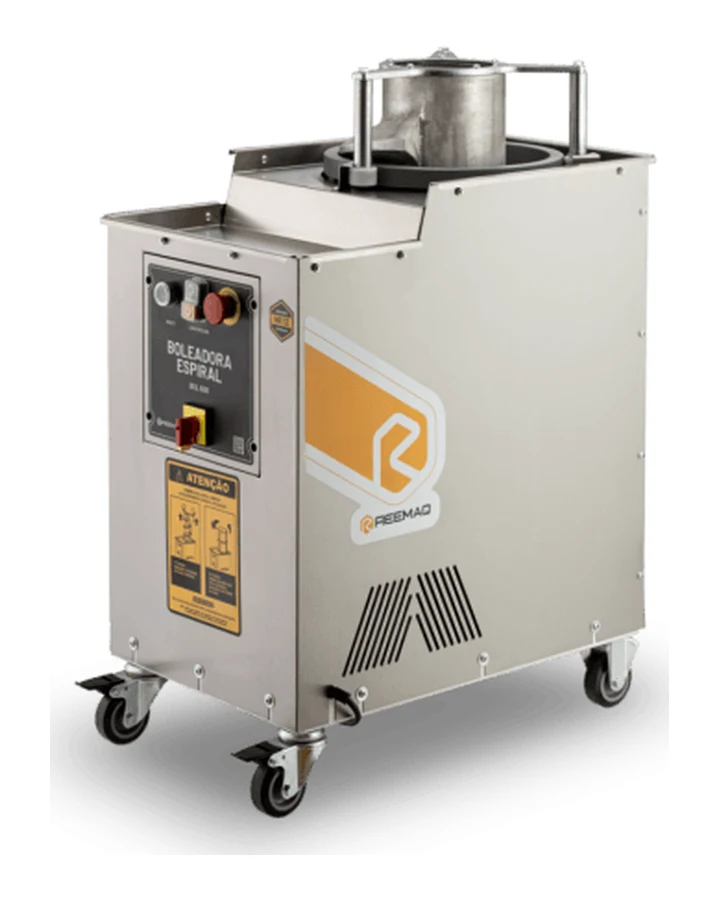
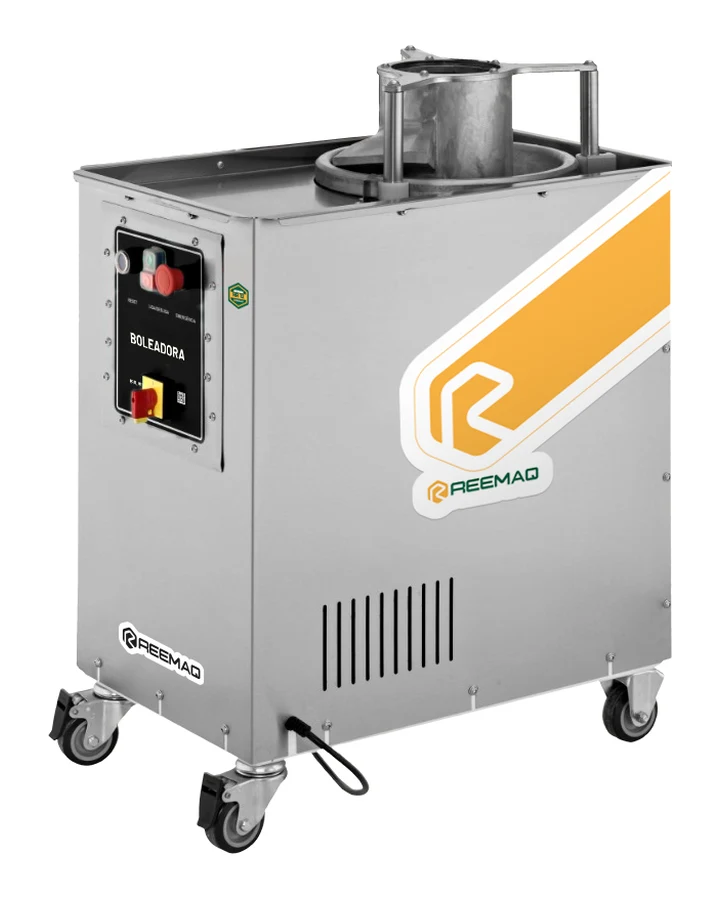
Reemaq: fotos MP 40 y boleadora nuevas, categoría destacada en landing y catálogo
Claude-Session: https://claude.ai/code/session_01JMrNzvF3s8qVz8PyM1pWJG

diff --git a/src/screens/Landing.jsx b/src/screens/Landing.jsx
@@ -96,14 +96,14 @@ function Landing({ go, addToCart }) {
           <div className="section-head">
             <div>
               <div className="eyebrow">01 — Líneas de producto</div>
-              <h2>Nueve líneas, todo el oficio cubierto.</h2>
+              <h2>Diez líneas, todo el oficio cubierto.</h2>
             </div>
             <button className="btn btn-ghost" onClick={() => go('catalog')}>Ver todo <Icon name="arrow" size={14}/></button>
           </div>
           <div className="cat-grid info-grid">
             {CATEGORIES.map(c => (
-              <div key={c.id} className="cat-cell" onClick={() => go('catalog', { category: c.id })}>
-                <div className="num">{c.n} / {String(CATEGORIES.length).padStart(2,'0')}</div>
+              <div key={c.id} className={`cat-cell${c.featured ? ' cat-featured' : ''}`} onClick={() => go('catalog', { category: c.id })}>
+                <div className="num">{c.n} / {String(CATEGORIES.length).padStart(2,'0')}{c.featured && <span className="feat-tag">Representante oficial</span>}</div>
                 <div>
                   <h3>{c.label}</h3>
                   <div className="count">{c.desc}</div>

diff --git a/src/data.js b/src/data.js
@@ -12,7 +12,7 @@ const CATEGORIES = [
   { id: 'rebanadoras', slug: 'rebanadoras',  n: '07', label: 'Rebanadoras',             desc: 'De mesa' },
   { id: 'laminadoras', slug: 'laminadoras',  n: '08', label: 'Laminadoras',             desc: 'De mesa y de pie' },
   { id: 'divisoras', slug: 'divisoras',    n: '09', label: 'Divisoras',               desc: 'Boleadoras semi-automáticas' },
-  { id: 'reemaq', slug: 'reemaq', n: '10', label: 'Reemaq', desc: 'Representante oficial: hornos, modeladoras y boleadora' },
+  { id: 'reemaq', slug: 'reemaq', n: '10', label: 'Reemaq', featured: true, desc: 'Representante oficial: hornos, modeladoras y boleadora' },
 ];
 
 const PRODUCTS = [

diff --git a/src/styles.css b/src/styles.css
@@ -2016,3 +2016,9 @@ img, svg, video { max-width: 100%; height: auto; }
   .dv-loc { grid-template-columns: 1fr; }
   .dv-loc-map, .dv-loc-map iframe { min-height: 300px; }
 }
+
+/* Categoría destacada (Reemaq) */
+.cat-cell.cat-featured { border-color: var(--accent); background: var(--accent-soft); }
+.cat-cell.cat-featured h3 { color: var(--accent); }
+.feat-tag { margin-left: 10px; padding: 2px 8px; background: var(--accent); color: var(--accent-ink); font-size: 10px; letter-spacing: .08em; text-transform: uppercase; border-radius: 2px; }
+.filter-item.featured span:first-child { color: var(--accent); font-weight: 600; }

diff --git a/src/screens/Catalog.jsx b/src/screens/Catalog.jsx
@@ -68,7 +68,7 @@ function Catalog({ go, addToCart, category }) {
               <span>Todas</span><span className="c">{PRODUCTS.length}</span>
             </div>
             {CATEGORIES.map(c => (
-              <div key={c.id} className={`filter-item ${cat === c.id ? 'active' : ''}`} onClick={() => pickCat(c.id)}>
+              <div key={c.id} className={`filter-item ${cat === c.id ? 'active' : ''}${c.featured ? ' featured' : ''}`} onClick={() => pickCat(c.id)}>
                 <span>{c.label}</span>
                 <span className="c">{PRODUCTS.filter(p => p.category === c.id).length}</span>
               </div>
